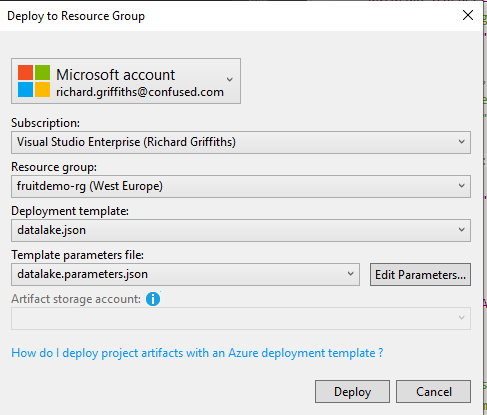
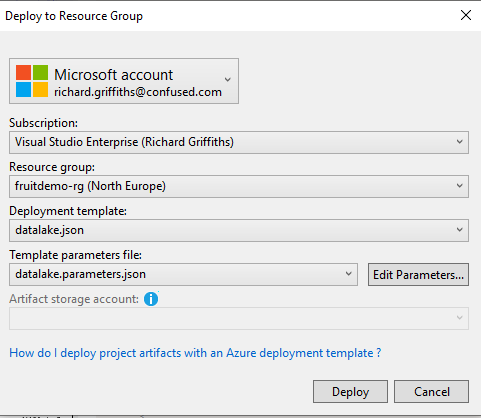
done data lake with explicit unique name and changed to North Europe

diff --git a/Griffless/Instructions/03_CreateDataLake/CreateDataLake.md b/Griffless/Instructions/03_CreateDataLake/CreateDataLake.md
@@ -14,16 +14,16 @@ You might want to create the data lake using the portal the first time you do it
 
 ![Fruit Resource Group](Images/FruitResourceGroup.PNG)
 
-   ii. Name it fruitdemo-rg and created it West Europe region. 
+   ii. Name it fruitdemo-rg and created it North Europe region. 
 
 ![Fruit Resource Group Detail](Images/FruitResourceGroupDetail.PNG)
 
-3. Create a new data lake called fruitdemodtlk.
+3. Create a new data lake called {yourname}fruitdemodtlk. You need to prefix it with something unique (like your name) so that the whole URL of the data lake is unique across Azure. 
   i. Click the green plus and search for data lake. 
 
 ![Fruit Data Lake](Images/FruitDataLake.PNG)
 
-   ii. Name it fruitdemodtlk, use your appropriate subscription, use the resource group fruitdemo-rg, create it in the West Europe region and choose pay as you go. 
+   ii. Name it {yourname}fruitdemodtlk, use your appropriate subscription, use the resource group fruitdemo-rg, create it in the North Europe region and choose pay as you go. 
 ![Fruit Data Lake Detail](Images/FruitDataLakeDetail.PNG)
 
 4. Navigate to your fruitdemo-rg and you will now see your data lake resource. 
@@ -42,10 +42,10 @@ You might want to create the data lake using the portal the first time you do it
   "contentVersion": "1.0.0.0",
   "parameters": {
     "dataLakeStorageName": {
-      "value": "fruitdemodtlk"
+      "value": "grifffruitdemodtlk"
     },
     "dataLakeStorageLocation": {
-      "value": "West Europe"
+      "value": "North Europe"
     }
   }
 }
@@ -72,7 +72,7 @@ You might want to create the data lake using the portal the first time you do it
         "North Europe",
         "West Europe"
       ],
-      "defaultValue": "West Europe",
+      "defaultValue": "North Europe",
       "metadata": {
         "description": "The location in which the resources will be created."
       }
